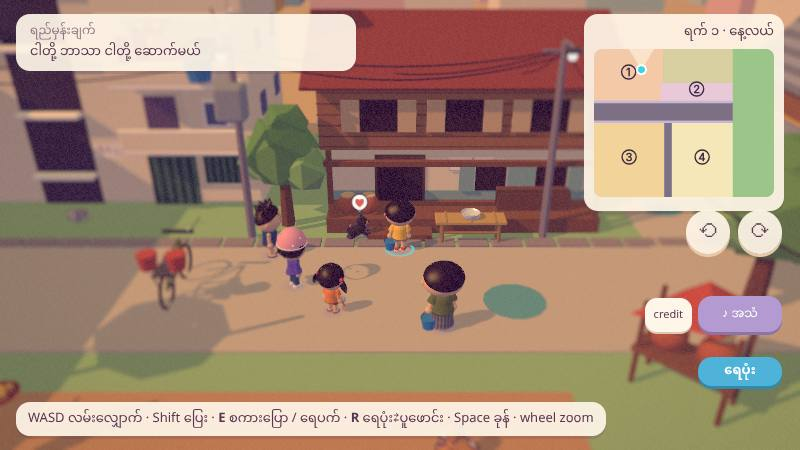
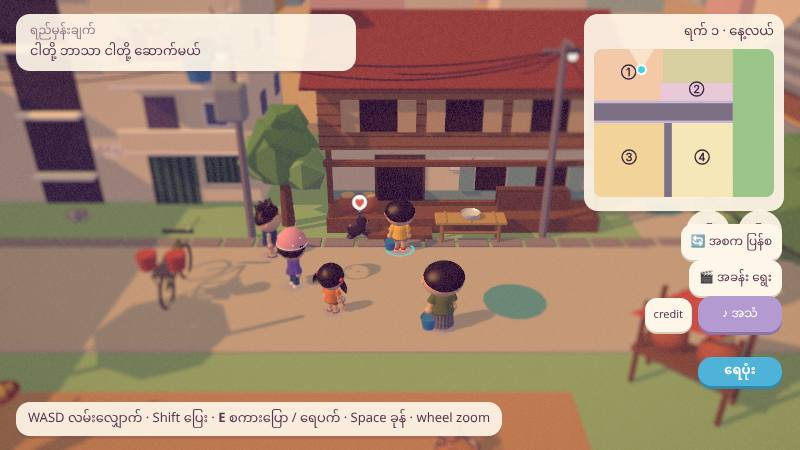
T13 review 1: desktop styling + touch check for the new menu buttons, Myanmar digits, no R hint on day 1
Claude-Session: https://claude.ai/code/session_017xuZq8H4cNKSMdBo5y4KvM

Changed region(s): [[0.4375, 0.8711, 0.7812, 0.9956], [0.8438, 0.4978, 1.0, 0.6844]]

diff --git a/yangon/main.js b/yangon/main.js
@@ -6,7 +6,7 @@
 // people and the street life stay — on day 1 they're out of Mum's range.
 import { createWorld, PAL, SKINS } from '../world.js?v=19';
 import { CAT_COATS } from '../critters.js?v=9';
-import { buildSet, BOUNDS, LANES, OX, OZ, ground, AREAS, areaAt, shwedagon } from './set.js?v=25';
+import { buildSet, MM, BOUNDS, LANES, OX, OZ, ground, AREAS, areaAt, shwedagon } from './set.js?v=25';
 import { createHud, play } from './hud.js?v=6';
 import { openBarber, openClothes, redress } from './wardrobe.js?v=8';
 import { buildRooms } from './rooms.js?v=14';
@@ -209,7 +209,7 @@ function onThrowFx(c, t, hand) { // a 'lob' (May Thu) or a 'throw' (you, with a 
 }
 // your E with nothing to do: the bucket heave (world.js) or, once May Thu gave you one, a balloon (R swaps)
 S.tool ??= 'bucket';
-const setTool = t => { S.tool = t; hud.tool(t === 'balloon' ? 'balloon' : 'bucket'); if (!S.ball) $('tool').querySelector('small')?.remove(); save(); }; // one tool = no 「R · ပြောင်း」 hint
+const setTool = t => { S.tool = t; hud.tool(t === 'balloon' ? 'balloon' : 'bucket'); if (!S.ball) $('tool').querySelector('small')?.remove(); $('hintr').hidden = !S.ball; save(); }; // one tool = no 「R · ပြောင်း」 hint
 const swapTool = () => { if (S.ball) setTool(S.tool === 'balloon' ? 'bucket' : 'balloon'); };
 $('tool').addEventListener('pointerdown', e => { e.stopPropagation(); swapTool(); });
 addEventListener('keydown', e => { if (e.code === 'KeyR' && !e.repeat) swapTool(); });
@@ -750,7 +750,7 @@ $('cyes').addEventListener('click', e => { e.stopPropagation(); restart(); });
 $('cno').addEventListener('click', e => { e.stopPropagation(); $('confirm').hidden = true; });
 $('scn').addEventListener('click', e => {
   e.stopPropagation(); closeOpts(); $('confirm').hidden = true;
-  $('phead').textContent = 'ရက် ' + S.day;
+  $('phead').textContent = 'ရက် ' + MM(S.day);
   $('plist').replaceChildren(...(STEPS[S.day] ?? []).map(id => {
     const b = document.createElement('button'); b.type = 'button'; b.dataset.step = id; b.textContent = STEP_LABELS[id] ?? id; b.classList.toggle('on', id === S.step);
     b.addEventListener('click', ev => { ev.stopPropagation(); const P = keep(); P.set('day', S.day); P.set('step', id); location.search = '?' + P; });

diff --git a/yangon.html b/yangon.html
@@ -101,6 +101,8 @@
   @media (pointer:coarse){#inst{bottom:calc(18px + env(safe-area-inset-bottom,0px))}#upd{bottom:calc(62px + env(safe-area-inset-bottom,0px))}}
   :is(#dlg,#menu,#mini,#end):not([hidden])~:is(#upd,#opts>#inst){display:none}
   #opt{display:none} #opts{display:contents}
+  #redo,#scn{position:fixed;z-index:3;right:calc(18px + env(safe-area-inset-right,0px));min-width:84px;min-height:32px;padding:5px 10px;border:0;border-radius:12px;background:#fff6ea;color:#5a3550;font:inherit;font-size:12px;box-shadow:0 2px 0 #d9c9b8;cursor:pointer;white-space:nowrap}
+  #redo{bottom:calc(190px + env(safe-area-inset-bottom,0px))} #scn{bottom:calc(154px + env(safe-area-inset-bottom,0px))}
   #gfx{position:fixed;z-index:3;right:calc(164px + env(safe-area-inset-right,0px));bottom:calc(118px + env(safe-area-inset-bottom,0px));padding:5px 9px;border:0;border-radius:12px;background:#fff6ea;color:#5a3550;font:inherit;font-size:11px;box-shadow:0 2px 0 #d9c9b8;cursor:pointer;white-space:nowrap}
   @media (pointer:coarse){#gfx{bottom:calc(150px + env(safe-area-inset-bottom,0px))}}
   @media (pointer:coarse){#cred{bottom:calc(150px + env(safe-area-inset-bottom,0px))}}
@@ -160,7 +162,7 @@
   <canvas id="map" width="180" height="148" aria-label="မြေပုံ"></canvas>
   <div id="bag"></div>
 </div>
-<div id="hint" class="panel">WASD လမ်းလျှောက် · Shift ပြေး · <b>E</b> စကားပြော / ရေပက် · <b>R</b> ရေပုံး⇄ပူဖောင်း · Space ခုန် · wheel zoom</div>
+<div id="hint" class="panel">WASD လမ်းလျှောက် · Shift ပြေး · <b>E</b> စကားပြော / ရေပက် <span id="hintr">· <b>R</b> ရေပုံး⇄ပူဖောင်း</span> · Space ခုန် · wheel zoom</div>
 <div id="prompt" class="panel" hidden><span class="key">E</span><span id="ptext"></span></div>
 <div id="dlg" class="panel" hidden><b id="dname"></b><span id="dtext"></span><small><span class="kb">E </span>▸ ဆက်</small></div>
 <div id="toast" class="panel" hidden></div>
